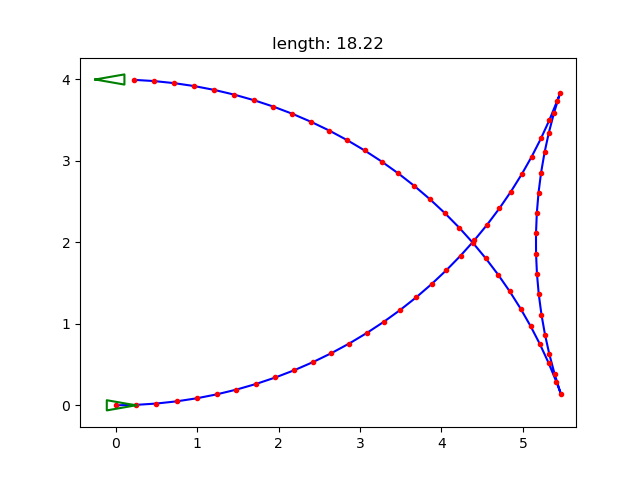
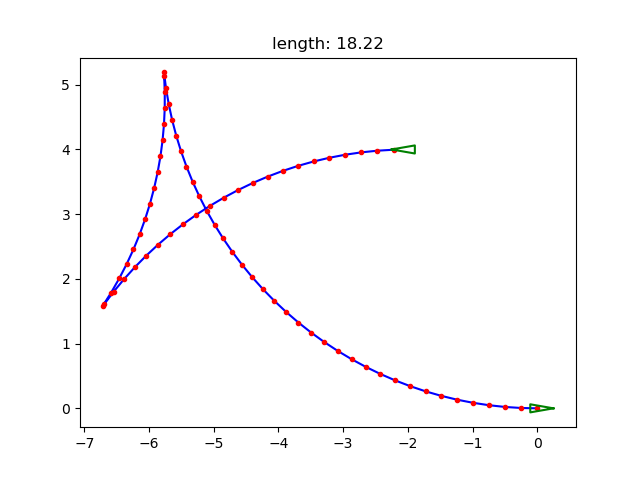
bugia

diff --git a/src/trajectory2.py b/src/trajectory2.py
@@ -4,8 +4,6 @@
 import rospy
 # IMPORT LIBRERIA PER LA GENERAZIONE DELLE CURVE
 import reeds_shepp
-# ??? non richiamato
-import unicycle as un
 # IMPORT NECESSARI ALL'INVIO DEI MESSAGGI DI CONTROLLO DEL VEICOLO
 from std_msgs.msg import Float64
 from nav_msgs.msg import Odometry
@@ -26,7 +24,6 @@ class Trajectory_control():
     msg1 = Twist()
     deltasx = Float64()
     deltadx = Float64()
-    #t = []
     t = np.linspace(0, 100, 1000)
     x_d = []
     y_d = []
@@ -84,7 +81,7 @@ class Trajectory_control():
     def trajectory_generation(self):
 
         # DEFINIZIONE DELLA COORDINATA INIZIALE E DI QUELLA FINALE
-        coordinate = [(0.0, 0.0, 0.0), (0.0, 4.0, np.pi)]
+        coordinate = [(0.0, 0.0, 0.0), (-2.0, 4.0, np.pi)]
         # PARAMETRI UTILI ALLA GENERAZIONE DELLE CURVE DI REEDSSHEPP
         step_size = 0.25
         rho = 5.8
@@ -118,10 +115,11 @@ class Trajectory_control():
 
         if xs[i+1] > xs[i]:
             temp = True
-            segment_x[j].append(xs[i])
-            segment_y[j].append(ys[i])
         else:
             temp = False
+        
+        segment_x[j].append(xs[i])
+        segment_y[j].append(ys[i])
         
         self.slope_x.append(temp)
 
@@ -175,8 +173,19 @@ class Trajectory_control():
         R = np.zeros(N)
         x_c = np.zeros(N)
         y_c = np.zeros(N)  
+
+        print(segment_x)
+        print(segment_y)
            
         while i <= j:
+            
+            if len(segment_x[i]) < 3 or len(segment_y[i]) < 3:                  
+                segment_x[i].append(segment_x[i][0]+0.1)    
+                segment_x[i].append(segment_x[i][0]-0.1)
+                segment_y[i].append(segment_y[i][0]+0.1)    
+                segment_y[i].append(segment_y[i][0]-0.1)
+            
+
 
             Ax = segment_x[i][0]
             Bx = segment_x[i][1]
@@ -184,11 +193,10 @@ class Trajectory_control():
             Ay = segment_y[i][0]
             By = segment_y[i][1]
             Cy = segment_y[i][2]
-
             A = [Ax, Ay]
             B = [Bx, By]
             C = [Cx, Cy]
-            
+                
             var = np.array([[A[0],A[1],1], [B[0],B[1],1], [C[0],C[1],1]])
 
             notA = -(A[0]**2)-(A[1]**2)
@@ -201,13 +209,13 @@ class Trajectory_control():
 
             x_c[i] = -soluzione[0]/2
             y_c[i] = -soluzione[1]/2
-            
+                
             initial_x.append(Ax)
             initial_y.append(Ay)
 
-            i = i+1 
-        
-        
+            i = i +1
+                
+            
         self.trajectory(R, x_c, y_c, N, initial_x, initial_y, final_x, final_y, segment_x, segment_y)
         #print(self.x_d)
         #print(self.y_d)

diff --git a/src/path.py b/src/path.py
@@ -53,7 +53,7 @@ def plot_table(cols):
     plt.show()
 
 if __name__ == "__main__":
-    q = [( 0.0, 0.0, 0.0), ( 0.0, 4.0, np.pi)]
+    q = [( 0.0, 0.0, 0.0), ( -2.0, 4.0, np.pi)]
     q0 = q[0]
     q1 = q[1]
     qd = plot_path(q0,q1)
